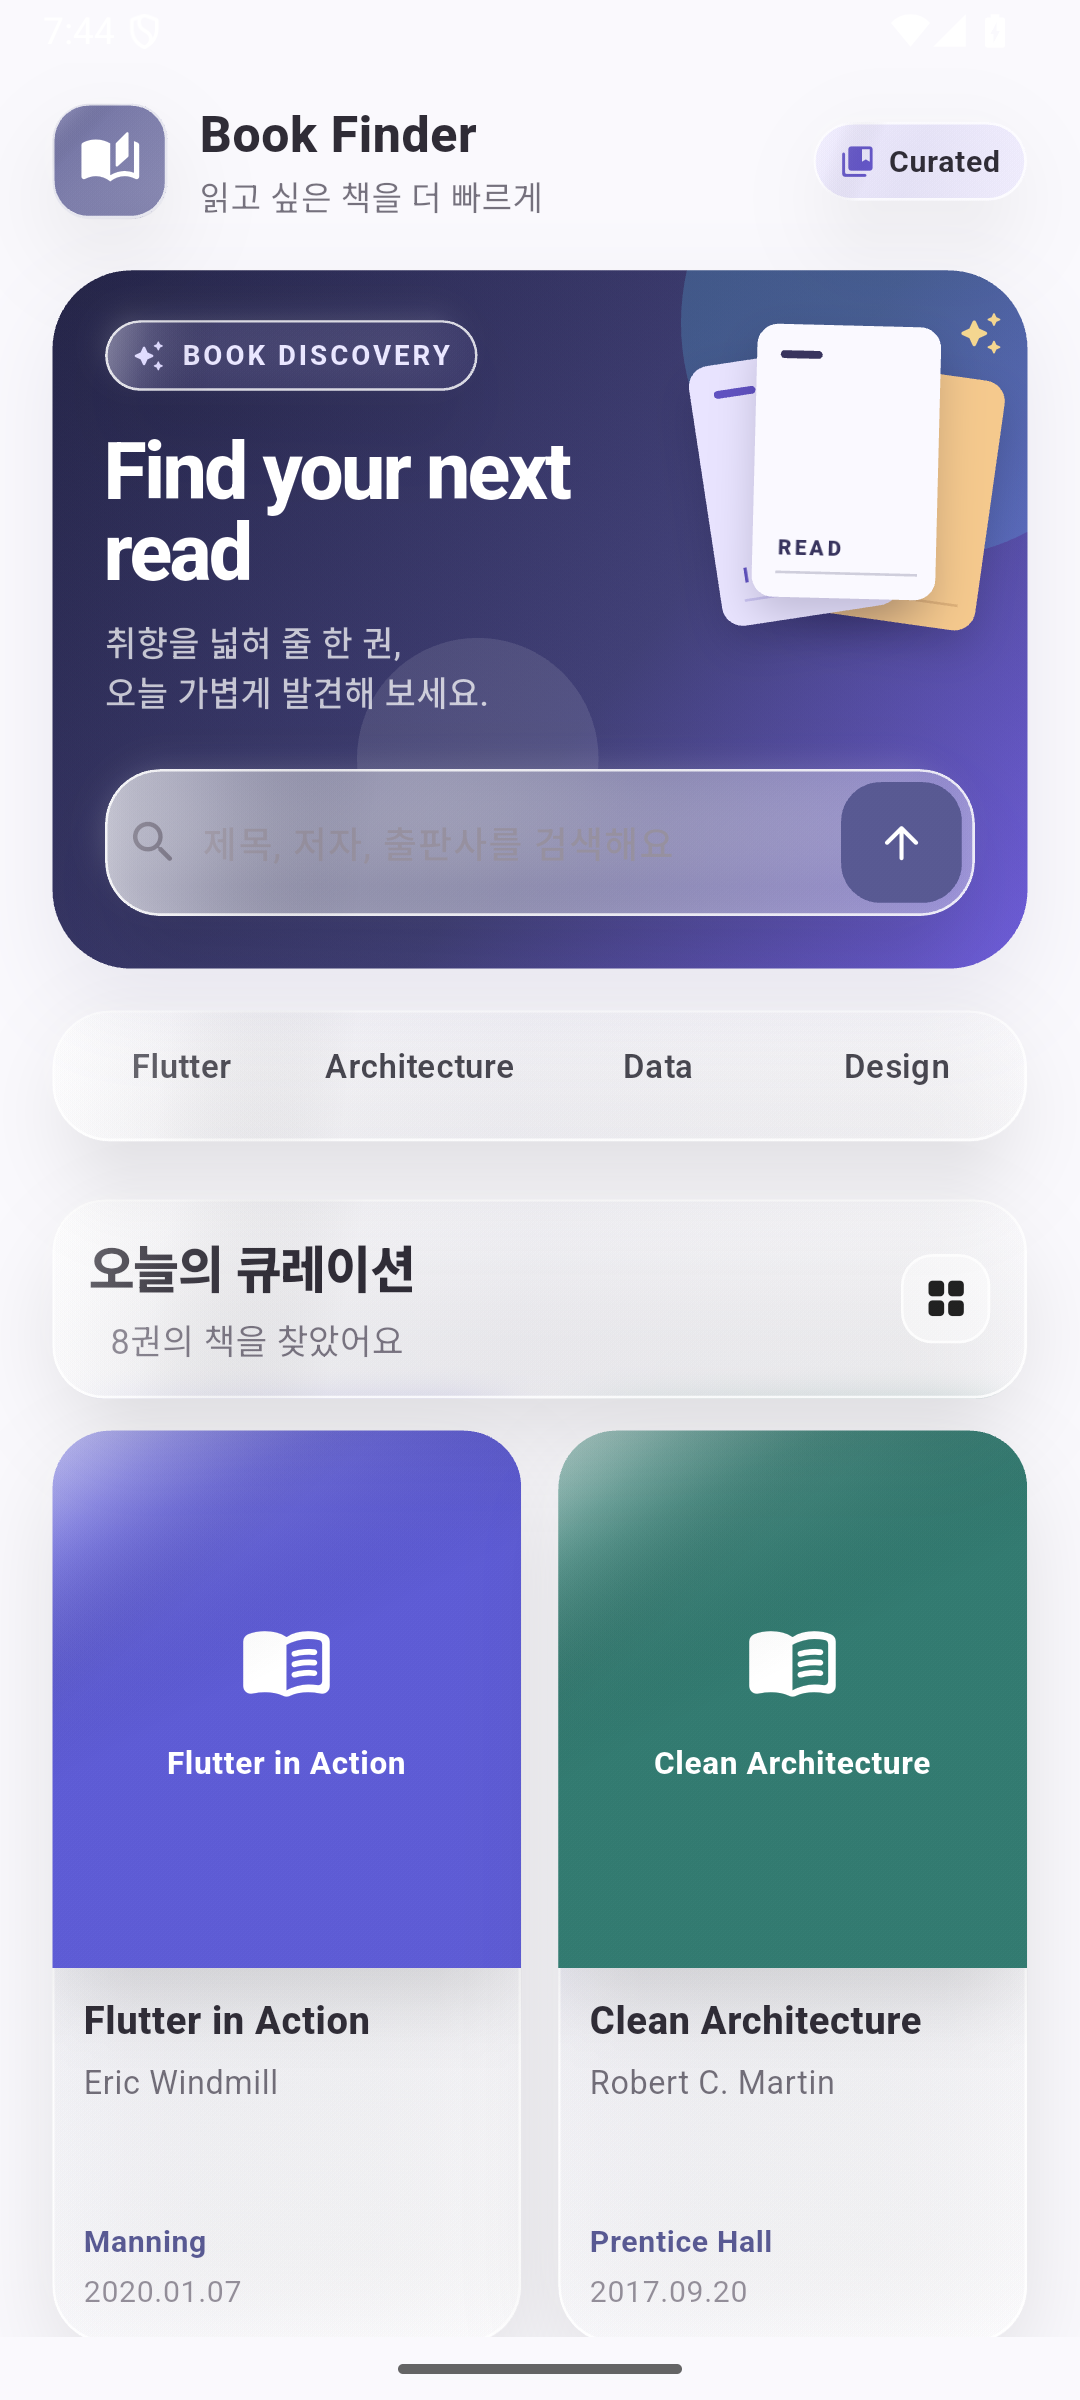
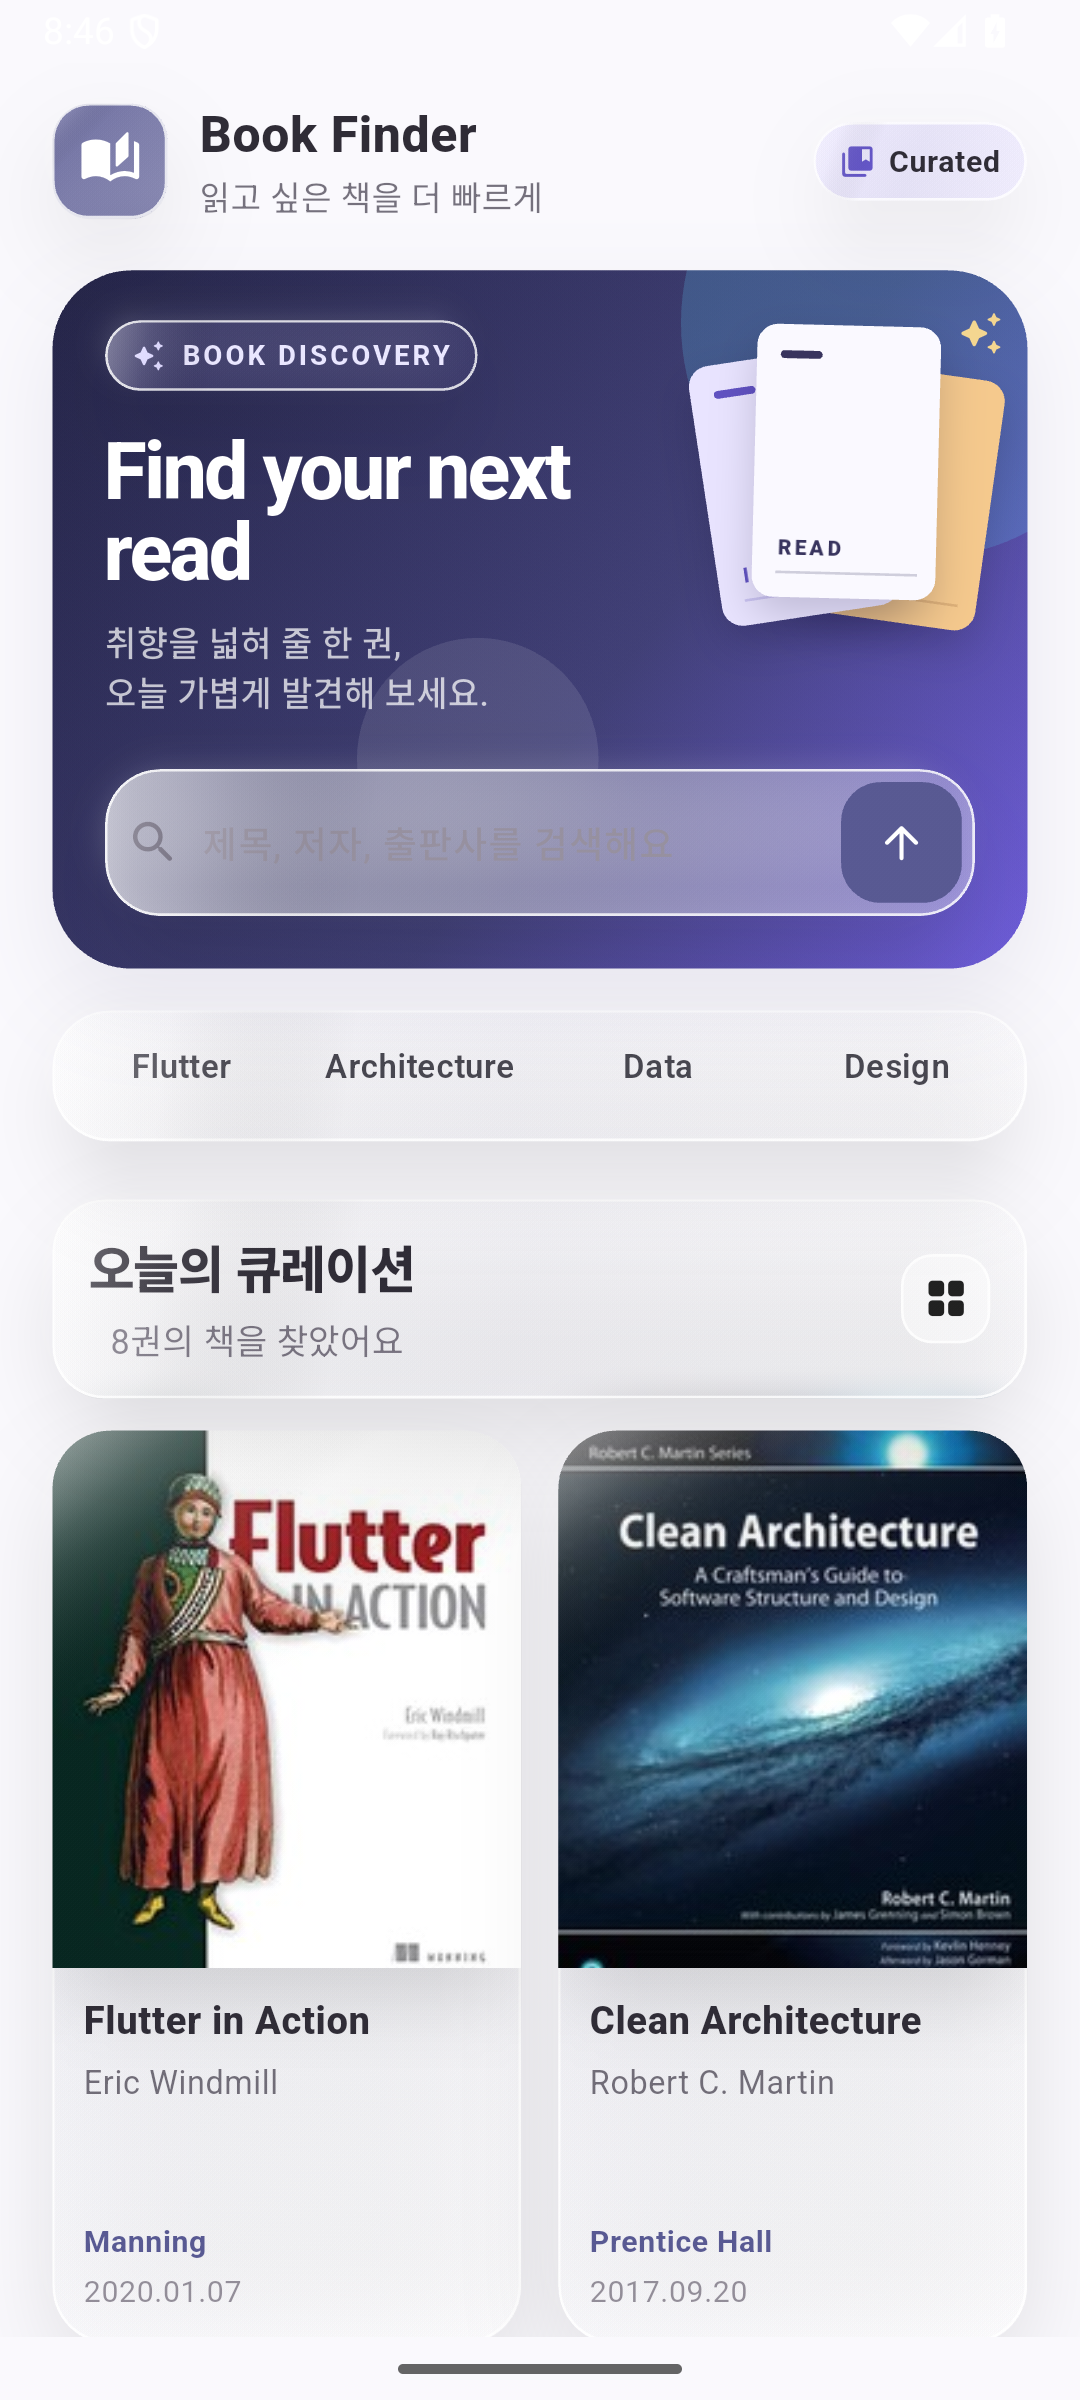
Stabilize book covers in portfolio captures

Changed region(s): [[0.0306, 0.5938, 0.4889, 0.8438], [0.5194, 0.5938, 0.9778, 0.8438]]

diff --git a/lib/data/repository/book_repository.dart b/lib/data/repository/book_repository.dart
@@ -23,7 +23,7 @@ class BookRepository {
     Book(
       title: 'Flutter in Action',
       link: 'https://search.shopping.naver.com/book/home',
-      image: 'https://covers.openlibrary.org/b/isbn/9781617296147-L.jpg',
+      image: 'https://covers.openlibrary.org/b/isbn/9781617296147-M.jpg',
       author: 'Eric Windmill',
       discount: '',
       publisher: 'Manning',
@@ -35,7 +35,7 @@ class BookRepository {
     Book(
       title: 'Clean Architecture',
       link: 'https://search.shopping.naver.com/book/home',
-      image: 'https://covers.openlibrary.org/b/isbn/9780134494166-L.jpg',
+      image: 'https://covers.openlibrary.org/b/isbn/9780134494166-M.jpg',
       author: 'Robert C. Martin',
       discount: '',
       publisher: 'Prentice Hall',
@@ -47,7 +47,7 @@ class BookRepository {
     Book(
       title: 'Designing Data-Intensive Applications',
       link: 'https://search.shopping.naver.com/book/home',
-      image: 'https://covers.openlibrary.org/b/isbn/9781449373320-L.jpg',
+      image: 'https://covers.openlibrary.org/b/isbn/9781449373320-M.jpg',
       author: 'Martin Kleppmann',
       discount: '',
       publisher: "O'Reilly Media",
@@ -59,7 +59,7 @@ class BookRepository {
     Book(
       title: 'The Pragmatic Programmer',
       link: 'https://search.shopping.naver.com/book/home',
-      image: 'https://covers.openlibrary.org/b/isbn/9780135957059-L.jpg',
+      image: 'https://covers.openlibrary.org/b/isbn/9780135957059-M.jpg',
       author: 'David Thomas · Andrew Hunt',
       discount: '',
       publisher: 'Addison-Wesley',
@@ -71,7 +71,7 @@ class BookRepository {
     Book(
       title: 'Refactoring',
       link: 'https://search.shopping.naver.com/book/home',
-      image: 'https://covers.openlibrary.org/b/isbn/9780134757599-L.jpg',
+      image: 'https://covers.openlibrary.org/b/isbn/9780134757599-M.jpg',
       author: 'Martin Fowler',
       discount: '',
       publisher: 'Addison-Wesley',
@@ -83,7 +83,7 @@ class BookRepository {
     Book(
       title: 'Head First Design Patterns',
       link: 'https://search.shopping.naver.com/book/home',
-      image: 'https://covers.openlibrary.org/b/isbn/9781492078005-L.jpg',
+      image: 'https://covers.openlibrary.org/b/isbn/9781492078005-M.jpg',
       author: 'Eric Freeman · Elisabeth Robson',
       discount: '',
       publisher: "O'Reilly Media",
@@ -95,7 +95,7 @@ class BookRepository {
     Book(
       title: "Don't Make Me Think, Revisited",
       link: 'https://search.shopping.naver.com/book/home',
-      image: 'https://covers.openlibrary.org/b/isbn/9780321965516-L.jpg',
+      image: 'https://covers.openlibrary.org/b/isbn/9780321965516-M.jpg',
       author: 'Steve Krug',
       discount: '',
       publisher: 'New Riders',
@@ -107,7 +107,7 @@ class BookRepository {
     Book(
       title: 'The Design of Everyday Things',
       link: 'https://search.shopping.naver.com/book/home',
-      image: 'https://covers.openlibrary.org/b/isbn/9780465050659-L.jpg',
+      image: 'https://covers.openlibrary.org/b/isbn/9780465050659-M.jpg',
       author: 'Don Norman',
       discount: '',
       publisher: 'Basic Books',
